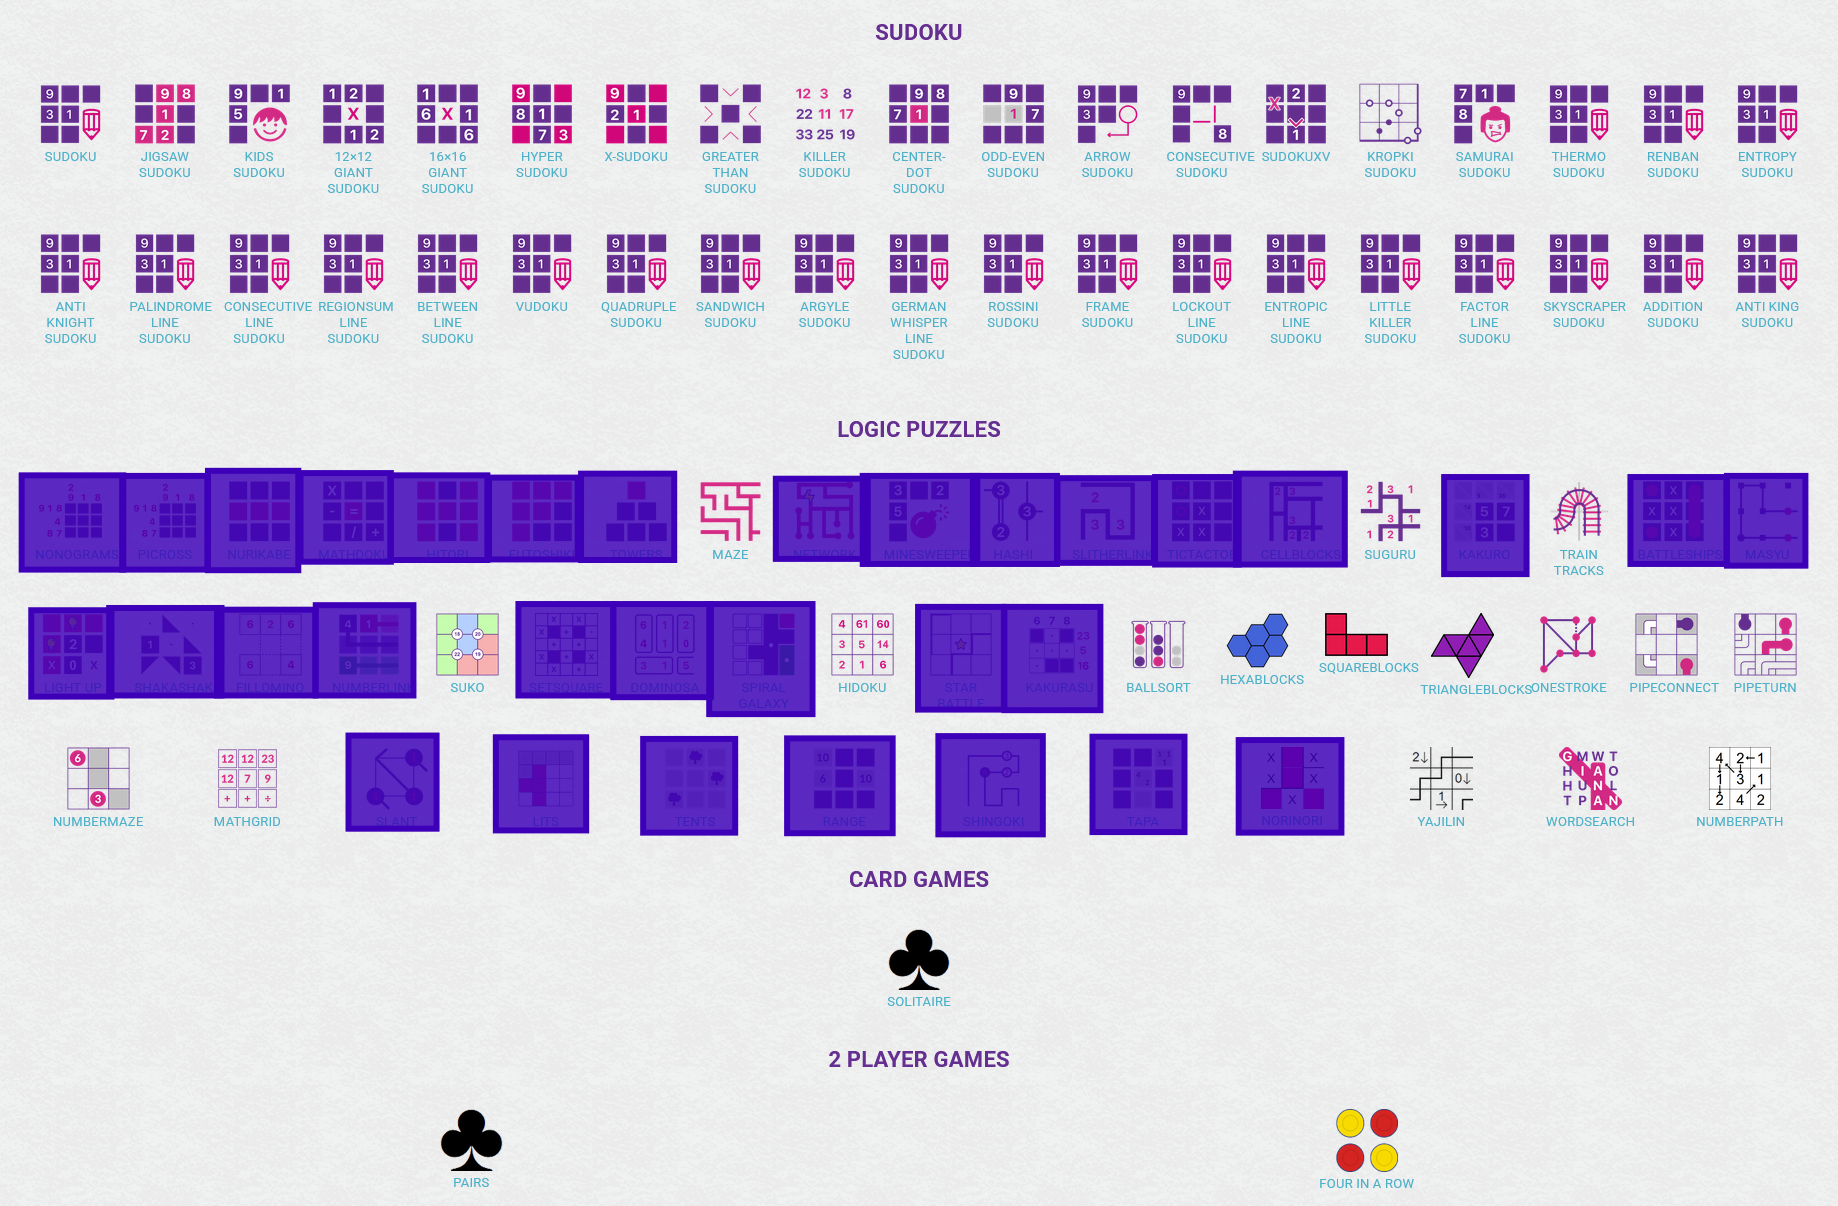
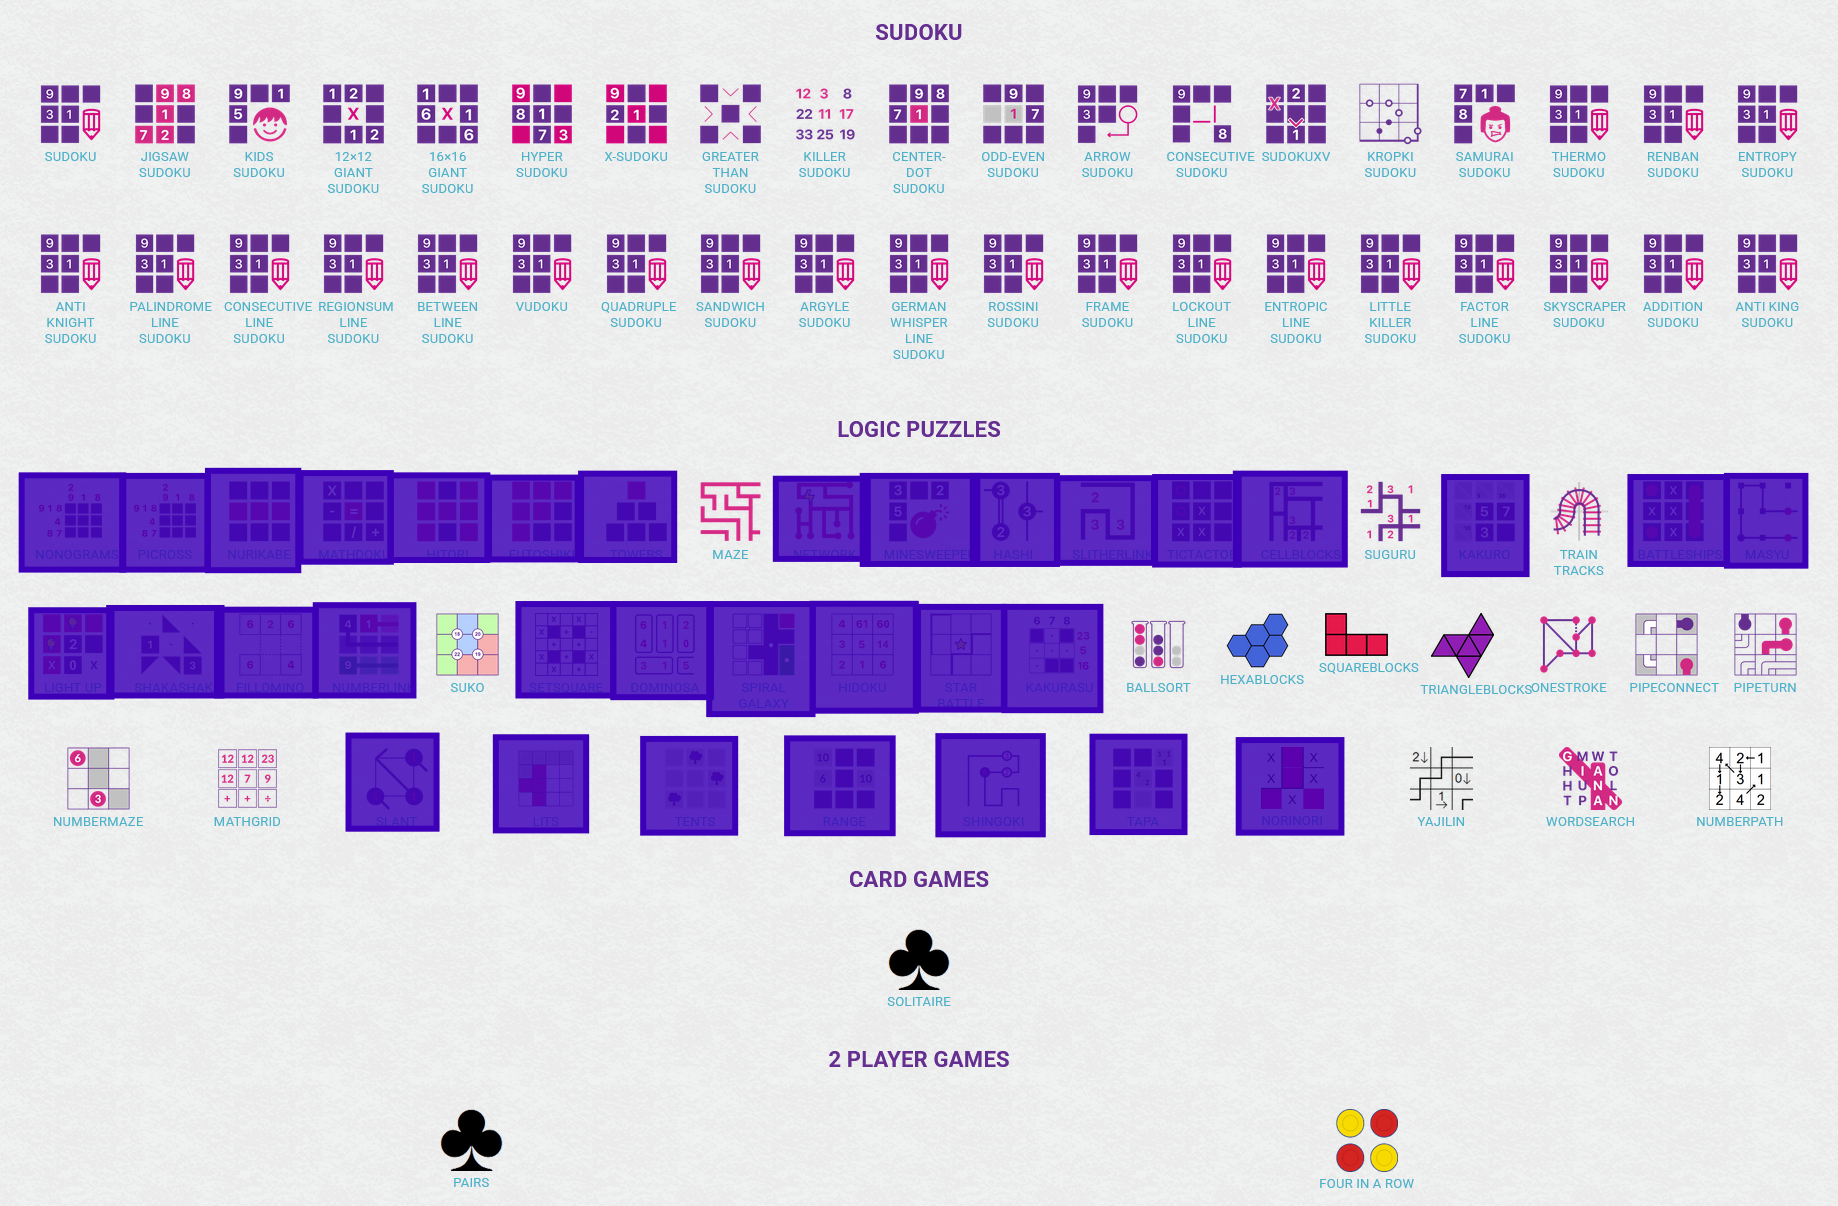
update puzzle list

Changed region(s): [[0.4342, 0.4909, 0.4962, 0.6136]]

diff --git a/images/README.md b/images/README.md
@@ -85,7 +85,7 @@ Sudoku variants are so abundant so they are currently not prioritized.
 The website has exactly 90 puzzles in total:
 
 - 38 are Sudoku-like puzzles (?/38 implemented)
-- 48 logic puzzles (32/48 implemented; 16 remaining)
-- 4 other puzzles that we aren't targeting (word search, solitaire, 4-in-a-row, pairs; 0/4 implemented)
+- 48 logic puzzles (33/48 implemented; 15 remaining)
+- 4 other puzzles that we aren't targeting (word search, solitaire, 4-in-a-row, pairs)
 
 Sudoku variants are similarly abundant in this website, thus they are currently not prioritized.
